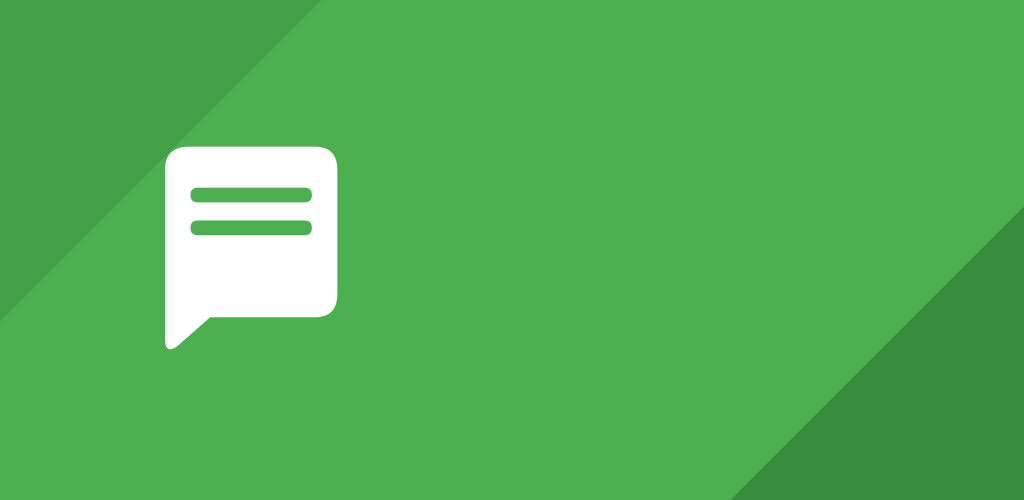
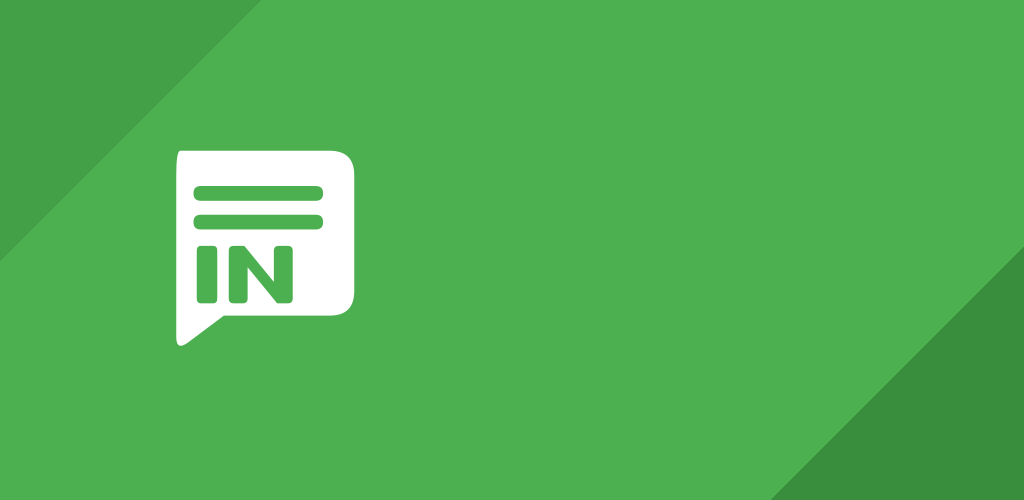
feat: take the revised launcher artwork
The second delivery fixes what the first one got wrong: the IN is a hole in
the bubble instead of a second filled path, and the letters sit at a 70px
cap height instead of 48, so they survive the size launchers draw at.

Everything now sits inside the safe circle, including the tail, which the
previous geometry pushed just past it. Version code 28, and the docs art is
the same set that ships in the app.

Changed region(s): [[0.1562, 0.27, 0.3438, 0.69], [0.7188, 0.42, 1.0, 1.0]]

diff --git a/graphics/ICON-SPEC.md b/graphics/ICON-SPEC.md
@@ -132,24 +132,20 @@ safer route.
 
 ---
 
-## As delivered, and what was changed to integrate it
+## As delivered
 
-The artwork arrived as four SVGs with the mark drawn as two paths: the bubble with its two
-lines as holes, and the IN as a separate **filled** path in the same ink colour. Because
-the IN sits inside the bubble and is filled with the bubble's own colour, it renders
-invisibly — the icon is a plain bubble. Checked by rasterising the files.
+The revised artwork is built the way this spec asks: one path with
+`fill-rule="evenodd"`, the bubble filled and its two lines plus the IN as holes, so the
+letters read the launcher background. IN measures 70 px cap height (spec asked 70–80),
+its bbox is x 185–302 by y 251–321, 20 px clear of the line above and 15 px from the
+bubble's bottom edge. Every point of the mark sits within the 156 px safe circle; the
+widest reach is the tail at 140 px.
 
-Integrated with three changes:
+The only change made on integration is the split into two foregrounds: white on the
+thirteen variants where it clears 2.5:1, and `#1A1A1A` on amber, cyan, light green,
+lime, orange and yellow, where the letters would otherwise sit on a bubble barely
+distinguishable from the background.
 
-1. **IN is a hole now.** The bubble, its lines and the IN are one path with
-   `fill-rule="evenodd"`, so the letters show the launcher's background colour instead of
-   the bubble's ink. In the monochrome layer the same path gives a cut-out IN.
-2. **IN scaled to 1.5×** — from a 48 px to a 72 px cap height, keeping its bottom-left
-   anchor. At 48 px the letters are unreadable at the 48 dp size launchers use; at 72 px
-   they read. Geometry after scaling: x 187–309, y 239–311, 10 px clear of the line above.
-3. **Six variants flip ink, thirteen keep white.** The delivered artwork assumed white
-   everywhere, which measures below 2.5:1 on six colours. Keeping white elsewhere
-   preserves the look; only amber, cyan, light green, lime, orange and yellow draw the
-   bubble in `#1A1A1A`.
-
-`featureGraphic.png` still shows the previous mark without the IN.
+**Watch on the next redraw:** the first delivery drew the IN as a second, filled path in
+the bubble's own ink, which renders invisible. The letters must stay subpaths of the
+bubble's path.
